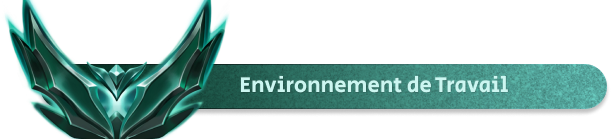
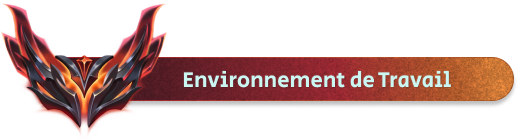
Add New Images and README Completed

diff --git a/README.md b/README.md
@@ -1,10 +1,14 @@
-# LOL-Project <img src="https://logo-marque.com/wp-content/uploads/2020/11/League-of-Legends-Embleme.png" width="40" >
+<div align = center>
+
+![Comment cloner](doc/Images/Banner.png)
+
+</div>
 
 
 **Thème du projet** : Réalisation d'une API et d'un ORM(Entity Framework) qui seront reliés à une base de données dans le thème de League of legends <img src="https://logo-marque.com/wp-content/uploads/2020/11/League-of-Legends-Embleme.png" width="40" >
 </br>
 
-# Répartition du Gitlab
+<img src="doc/Images/Title-Répartition.png" width="400">
 
 La racine de notre gitlab est composée de deux dossiers essentiels au projet:
 
@@ -15,9 +19,63 @@ La racine de notre gitlab est composée de deux dossiers essentiels au projet:
 👉 [**Solution de l'application**](src/EntityFramework_LoL/Sources/LeagueOfLegends.sln)
 
 
-# Environnement de Travail
+<img src="doc/Images/Title-Fonctionnement.png" width="460" >
 
-Mon environnement de travail se base sur plusieurs outils :👇
+- ### Comment récupérer le projet ? 
+
+Tout d'abord si ce n'est pas fait cloner le dépôt de la branche **master/main**, pour cela copier le lien URL du dépôt git :
+
+<div align = center>
+
+![Comment cloner](doc/Images/HowToClone.png)
+
+</div>
+
+Vous pouvez le cloner via un terminal dans le répertoire que vous souhaitez taper la commande : **git clone https://codefirst.iut.uca.fr/git/emre.kartal/LolProject.git** ou utiliser Visual Studio et cloner en entrant le lien :
+
+<div align = center>
+
+![Page Visual studio](doc/Images/PageVS.png)
+
+</div>
+
+:information_source: *Si vous ne disposez pas de Visual Studio, allé sur le site [Microsoft Visual Studio](https://visualstudio.microsoft.com/fr/downloads/) pour pouvoir le télécharger !!!*
+
+
+- ### Comment lancer Le projet Entity Framework ? 
+
+Afin de générer les migrations et les tables.
+Vous devez avoir installé correctement EntityFrameworkCore, pour cela il existe la commande : **dotnet tool install --global dotnet-ef** qui peut être lancé à partir d'un terminal, si il est déjà installer mais n'a pas la bonne version : **dotnet tool update --global dotnet-ef** (oui y que le *install* qui change vous êtes perspicace)!
+
+Aussi assurer d'avoir installé sur Visual Studio au préalable les package Nuget suivants : 
+
+<div align = center>
+
+![package nuget](doc/Images/Package_Nuget.png)
+
+</div>
+
+Ensuite sur le terminal PowerShell ou Visual Studio, lancer la migration via la commande : **dotnet ef migrations add monNomDeMigration** (n'oublier pas de vous situer dans le dossier "/MyFlib" lorsque vous l'exécuter)!
+
+- ### Comment voir la base de données ?
+
+C'est bien beau toutes ces étapes mais s’il n'y a pas de résultat à quoi cela sert !
+
+Afin de visualiser la migration dans la base de données, cliquer dans l'onglet **Affichage**->**Explorateur d'objets SQL Server** :
+
+<div align = center>
+
+![start BD](doc/Images/Start_BD.png)
+
+</div>
+
+Puis dans l'Explorateur d'objets SQL Server, cliquer sur **SQL Server**-> **(localdb)\MSSQLLocalDB ...**->**Bases de données**
+
+:information_source: *Notez qu'il est également possible d'utiliser l'Explorateur d'objets SQL Server pour ajouter, modifier ou supprimer des données dans les tables.*
+
+<img src="doc/Images/Title-Environnement.png" width="400" >
+
+Mon environnement de travail se base sur un outil et un langage en particulier :👇
 
 <div align = center>
 
@@ -30,7 +88,7 @@ Mon environnement de travail se base sur plusieurs outils :👇
 
 </div>
 
-# Technicien en charge de l'application
+<img src="doc/Images/Title-Technicien.png" width="460" >
 
 ⚙ Emre KARTAL
 <br>
